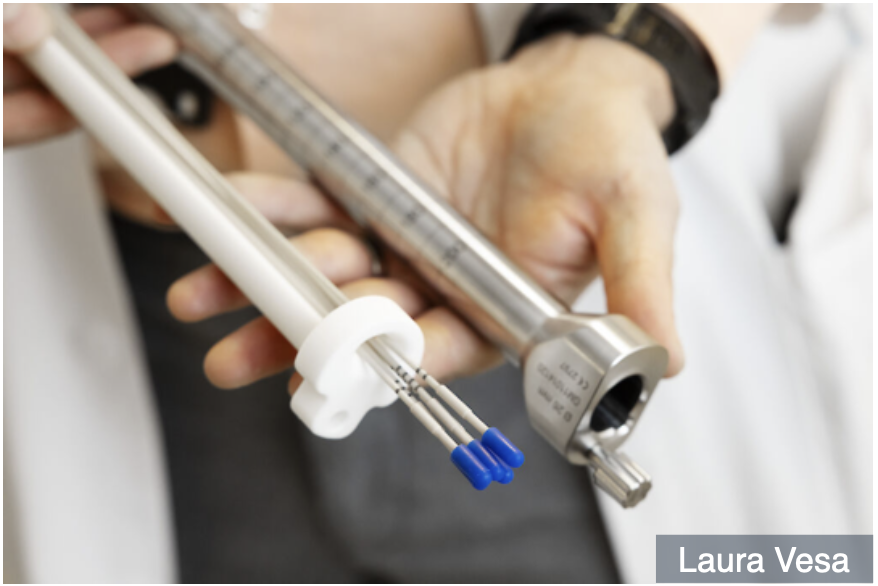
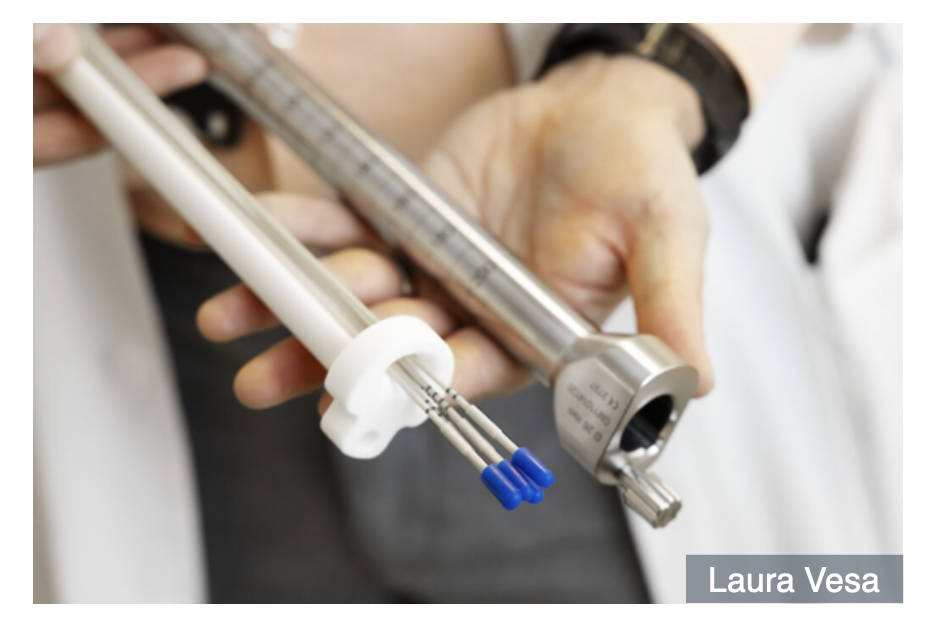
news update

diff --git a/content/post/2026-laakarilehti-hdr-tays/index.md b/content/post/2026-laakarilehti-hdr-tays/index.md
@@ -28,8 +28,6 @@ Tampere University Hospital is the first hospital in Finland to introduce a new 
 
 Professor Toni Seppälä hopes that, in the future, the treatment could also benefit patients who wish to avoid major surgery for rectal cancer.
 
-> "Tays on ottanut uuden peräsuolisyövän sädehoitomenetelmän käyttöön ensimmäisenä sairaalana Suomessa. HDR-brakyterapiahoidot aloitettiin elokuun[...] Professori Toni Seppälä toivoo, että tulevaisuudessa hoito hyödyttää myös sellaisia potilaita, jotka haluavat välttää suuren leikkauksen."
-
 Source: Ervasti, A-E. *Uusi peräsuolisyövän hoito alkoi Taysissa – osa potilaista voisi tulevaisuudessa välttyä leikkaukselta.* Suomen Lääkärilehti 2026;81:e49327.
 
-[Read the full article at Lääkärilehti →](https://www.laakarilehti.fi/kliininen-tyo/uusi-perasuolisyovan-hoito-alkoi-taysissa-osa-potilaista-voisi-tulevaisuudessa-valttya-leikkaukselta/) (login required, or [download PDF](article.pdf))
+[Read the full article at Lääkärilehti →](https://www.laakarilehti.fi/kliininen-tyo/uusi-perasuolisyovan-hoito-alkoi-taysissa-osa-potilaista-voisi-tulevaisuudessa-valttya-leikkaukselta/) or [from a PDF](article.pdf))
